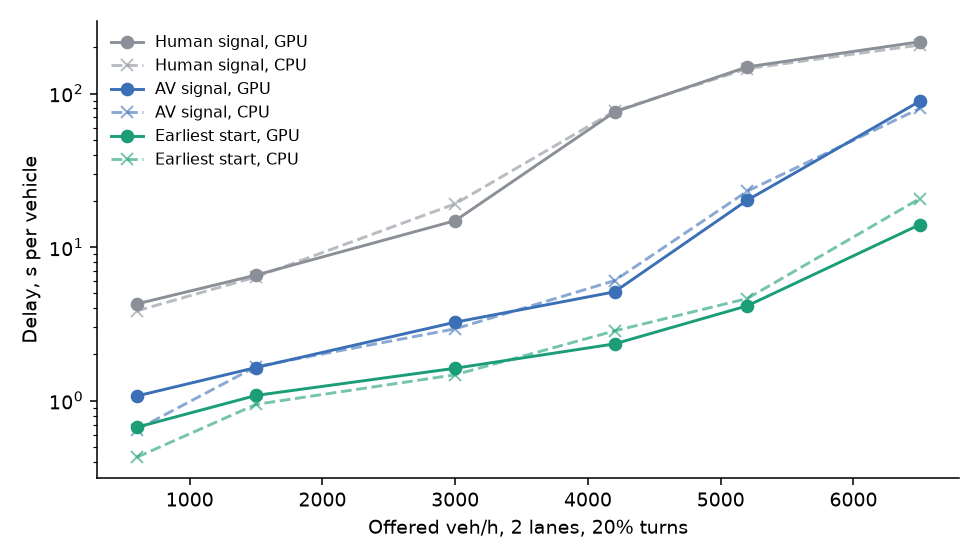
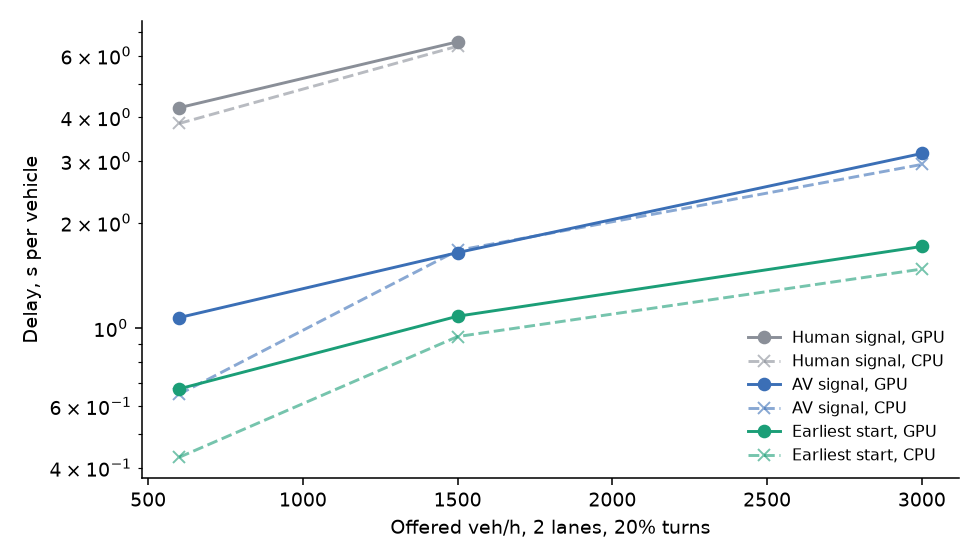
Sensing brake also for tails over the box and for cars that missed their slot

diff --git a/scripts/d8/verify.py b/scripts/d8/verify.py
@@ -11,7 +11,7 @@ work.mkdir(parents=True, exist_ok=True)
 rng = random.Random(8)
 out = D8 / 'verify.jsonl'
 with out.open('w') as f:
-    for part, n in (('stalls', 3), ('t', 4), ('grid', 6), ('meter_seeds', 6)):
+    for part, n in (('demand', 6), ('faults', 4), ('stalls', 3), ('t', 3), ('grid', 5), ('meter_seeds', 5)):
         rows = [json.loads(l) for l in (D8 / f'{part}.jsonl').read_text().splitlines()]
         for r in rng.sample(rows, n):
             g = run_case(r['case'], work, cars)

diff --git a/scripts/d8/compare.py b/scripts/d8/compare.py
@@ -16,7 +16,14 @@ def rows(part):
     p = D8 / f'{part}.jsonl'
     if not p.exists():
         return []
-    return [json.loads(l) for l in p.read_text().splitlines()]
+    # Two devices can reach the same case while the lock is contended: keep the first.
+    seen, out = set(), []
+    for l in p.read_text().splitlines():
+        r = json.loads(l)
+        if r['key'] not in seen:
+            seen.add(r['key'])
+            out.append(r)
+    return out
 
 
 def cpu(name):
